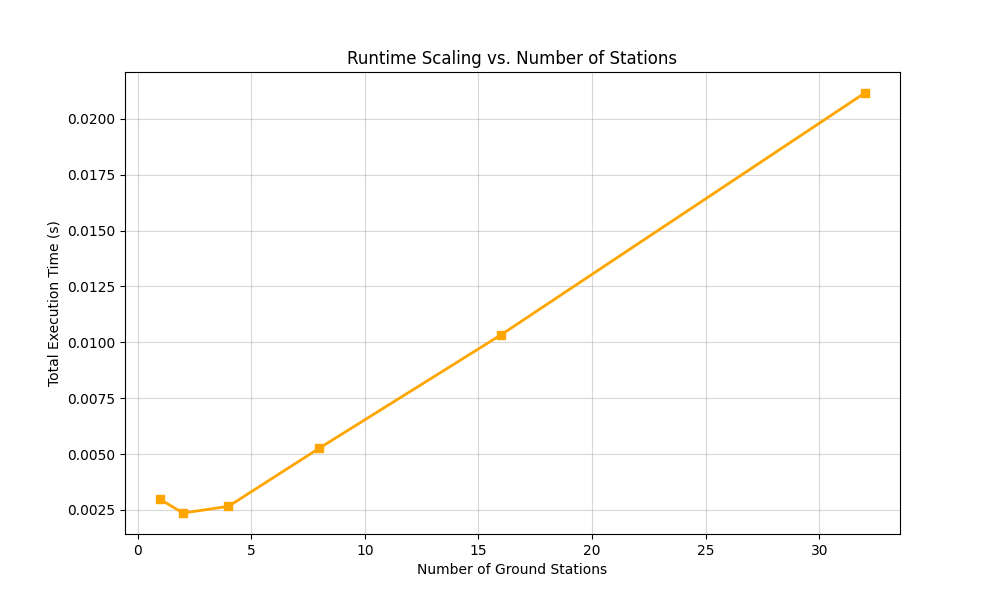
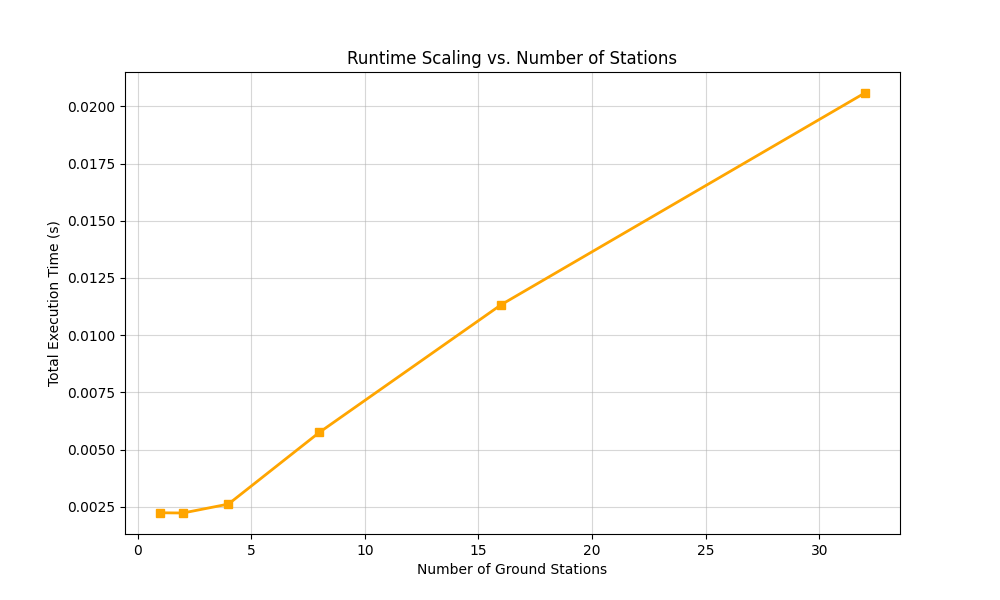
verified plots

diff --git a/val_and_bench/availability_validation.py b/val_and_bench/availability_validation.py
@@ -1,6 +1,12 @@
 import numpy as np
 import pandas as pd
+import sys
+import os
 from datetime import datetime, timedelta, timezone
+
+# Add parent directory to path
+sys.path.append(os.path.abspath(os.path.join(os.path.dirname(__file__), '..')))
+
 from satellite_link_sim import (
     simulate_all_batched, StationResult, HandoffEvent, 
     SNR_THRESHOLD_DB, packet_loss_from_snr